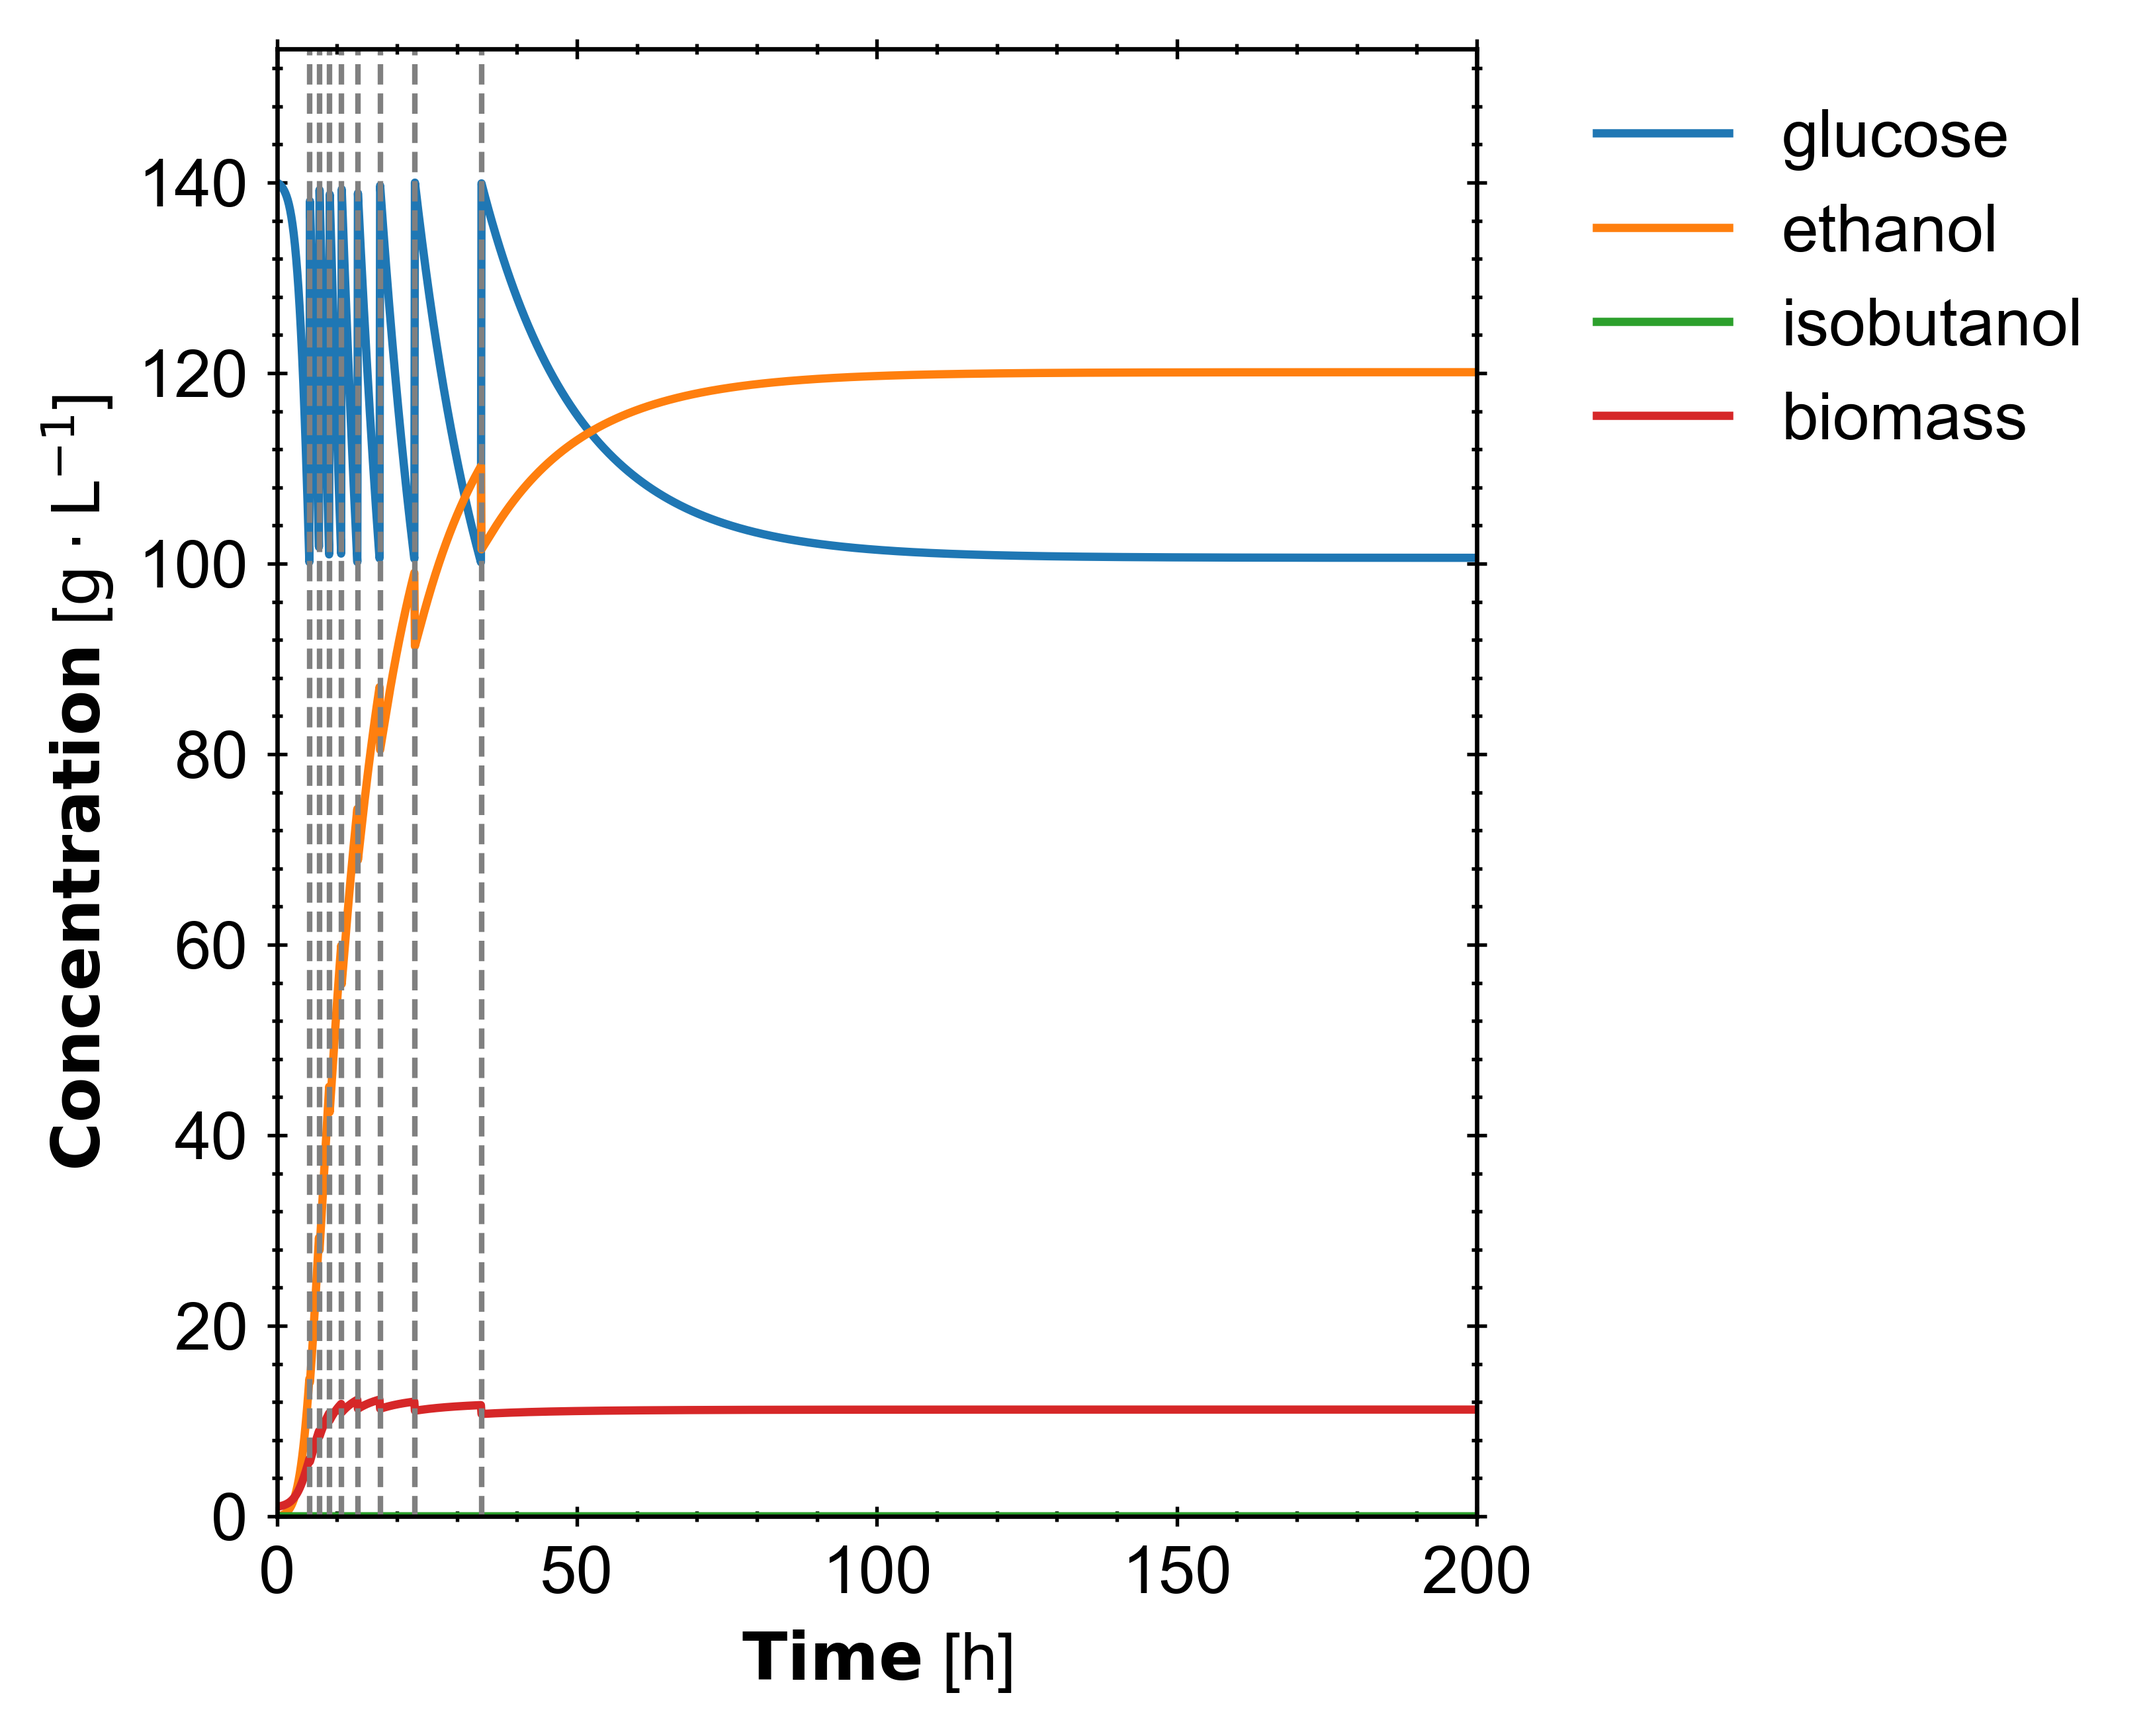
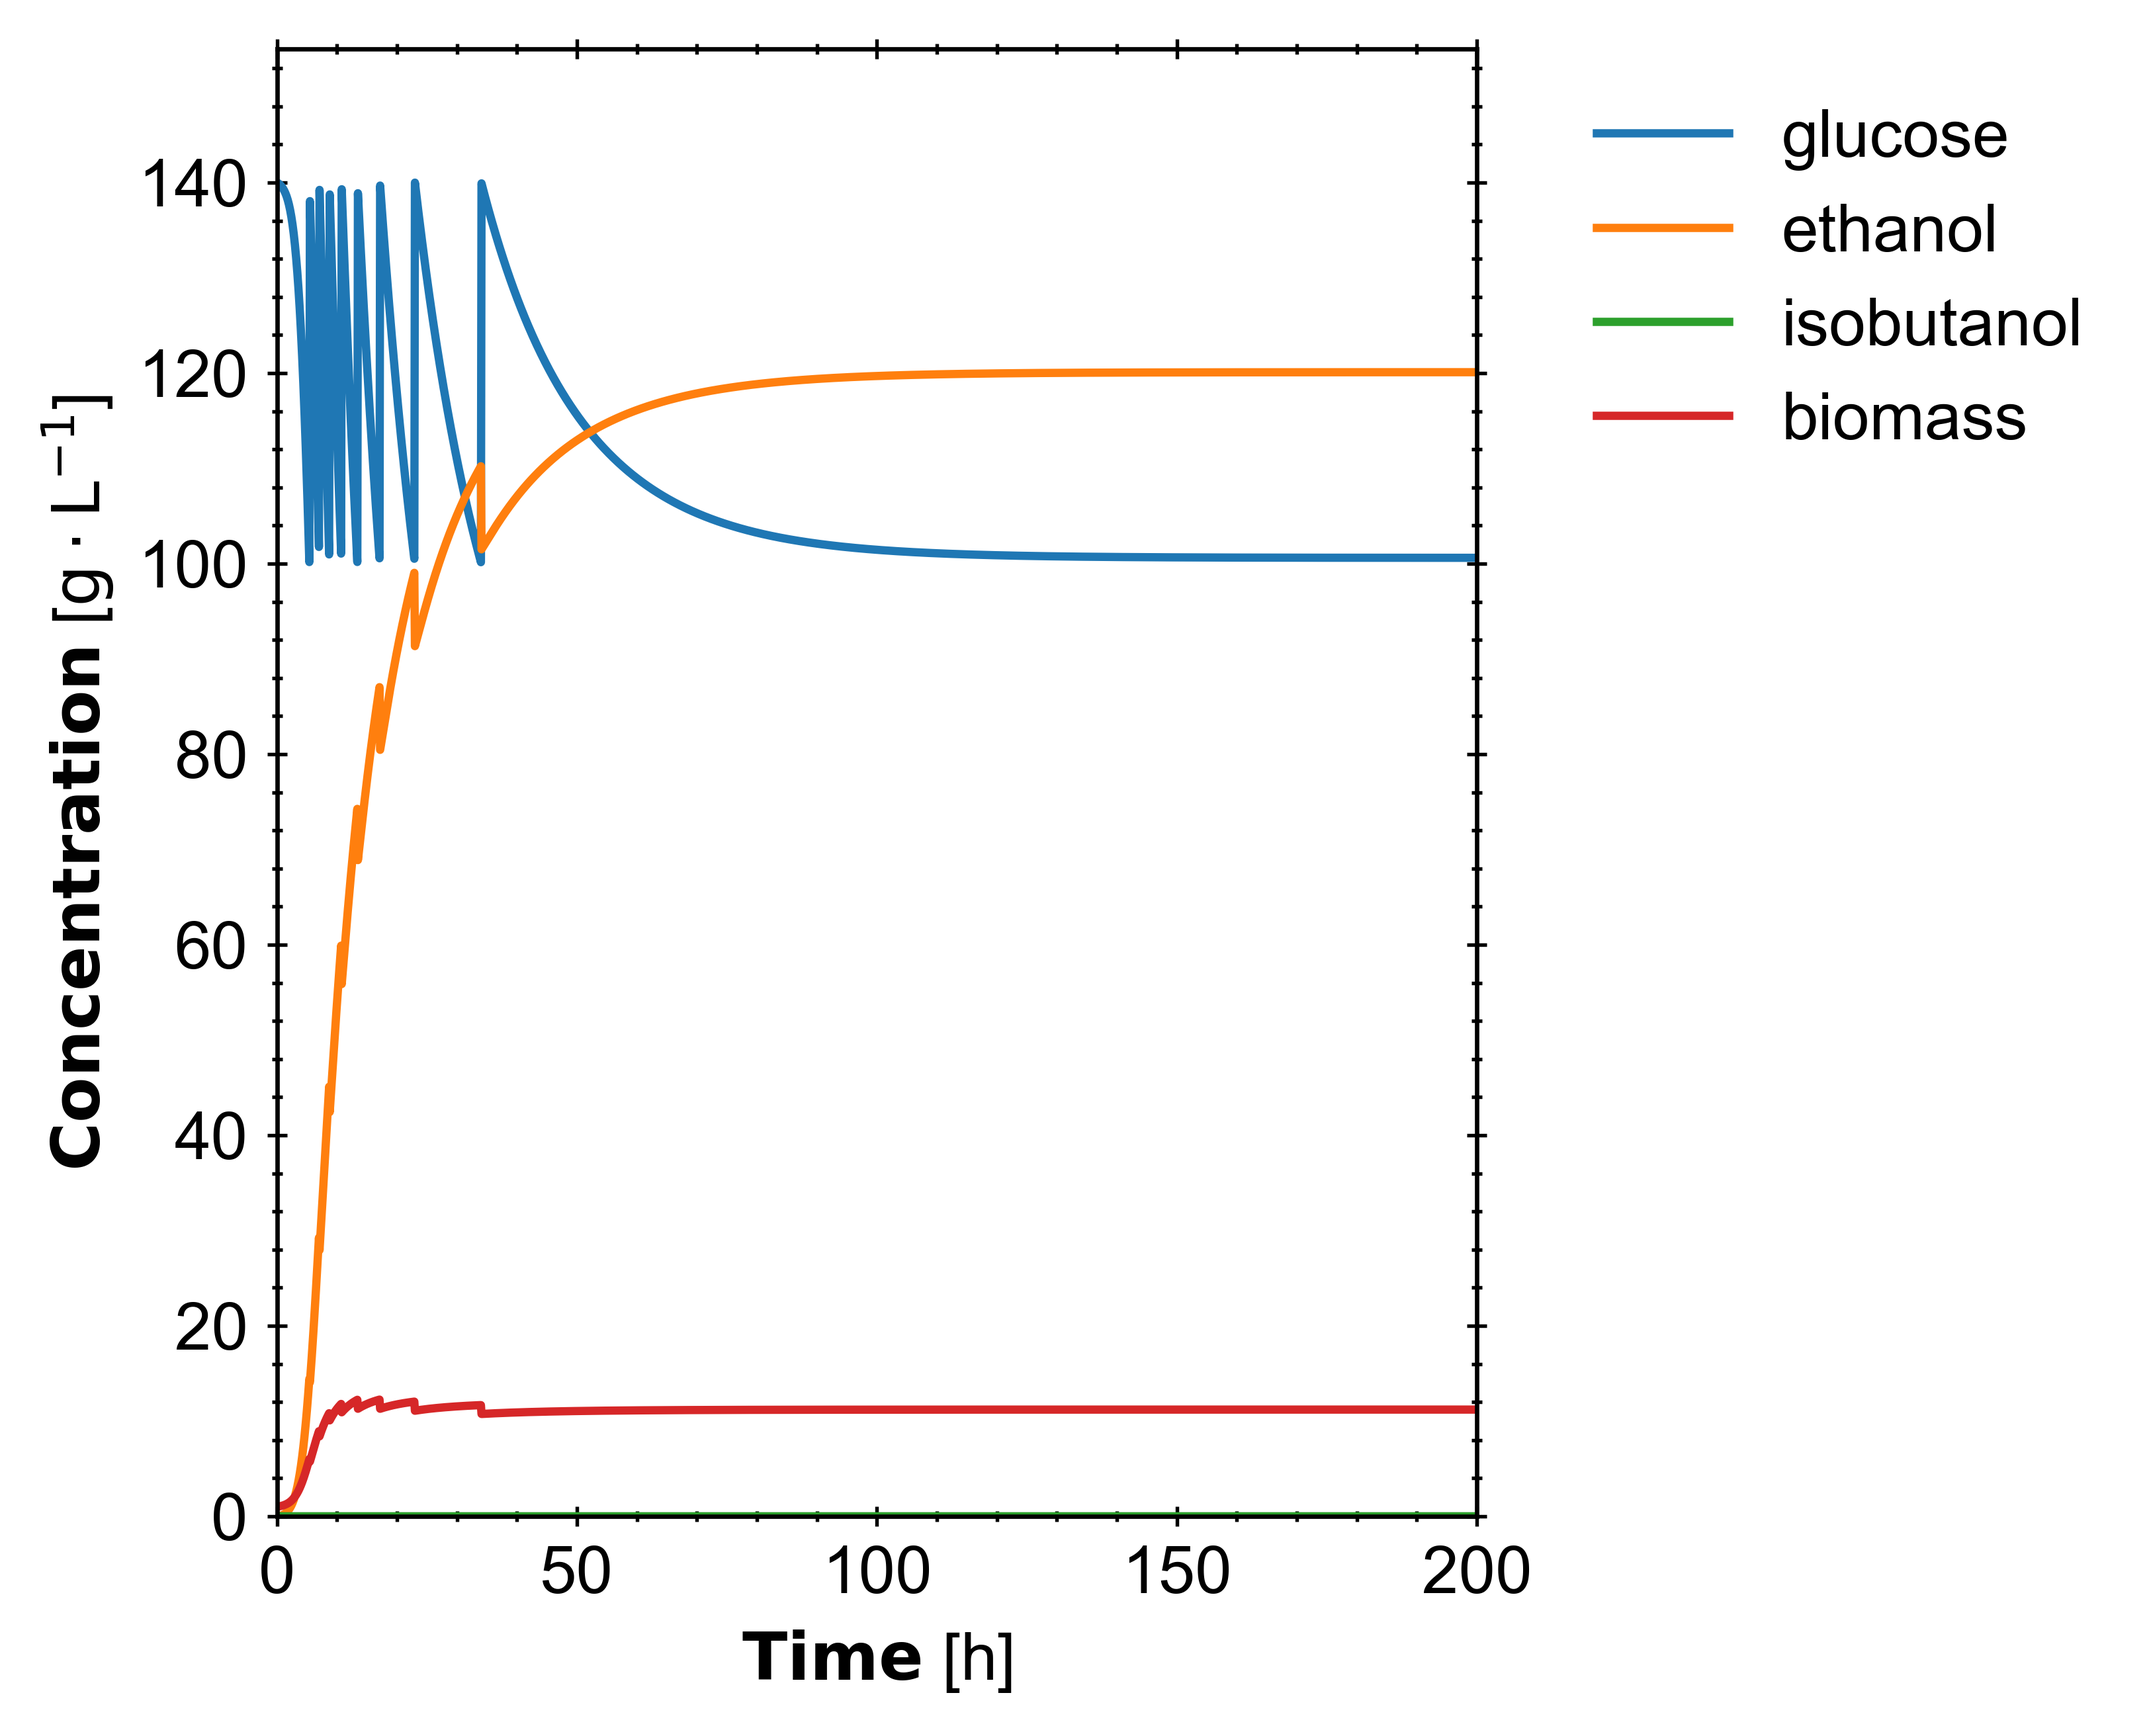
docs: drop spike-time markers from tutorial 05 fed-batch figure
Remove the markers argument from the plot_simulation_results call and
regenerate the figure without the vertical dashed lines; adjust the caption
to no longer reference them. Simulation output is unchanged.

Changed region(s): [[0.1244, 0.0309, 0.1866, 0.8653]]

diff --git a/docs/source/tutorial/05_real_model.rst b/docs/source/tutorial/05_real_model.rst
@@ -174,16 +174,14 @@ prints:
 
    trs.plot_simulation_results(
        variables=['[s_glu]', '[s_EtOH]', '[s_IBO]', '[x]'],
-       labels=['glucose', 'ethanol', 'isobutanol', 'biomass'],
-       markers=[5.5, 7.1, 8.8, 10.8, 13.5, 17.2, 23.0, 34.1])
+       labels=['glucose', 'ethanol', 'isobutanol', 'biomass'])
 
 .. figure:: /_static/images/examples/tutorial_05_real_model.png
    :width: 450
 
-   Eight glucose spikes (dashed lines) hold glucose in the 100–140 g/L band
-   until feeding tapers off past ~34 h; ethanol and biomass climb while the
-   isobutanol branch stays at 0 (its rate constants are 0 in the shipped
-   baseline).
+   Eight glucose spikes hold glucose in the 100–140 g/L band until feeding
+   tapers off past ~34 h; ethanol and biomass climb while the isobutanol
+   branch stays at 0 (its rate constants are 0 in the shipped baseline).
 
 Reading the final state
 -------------------------
